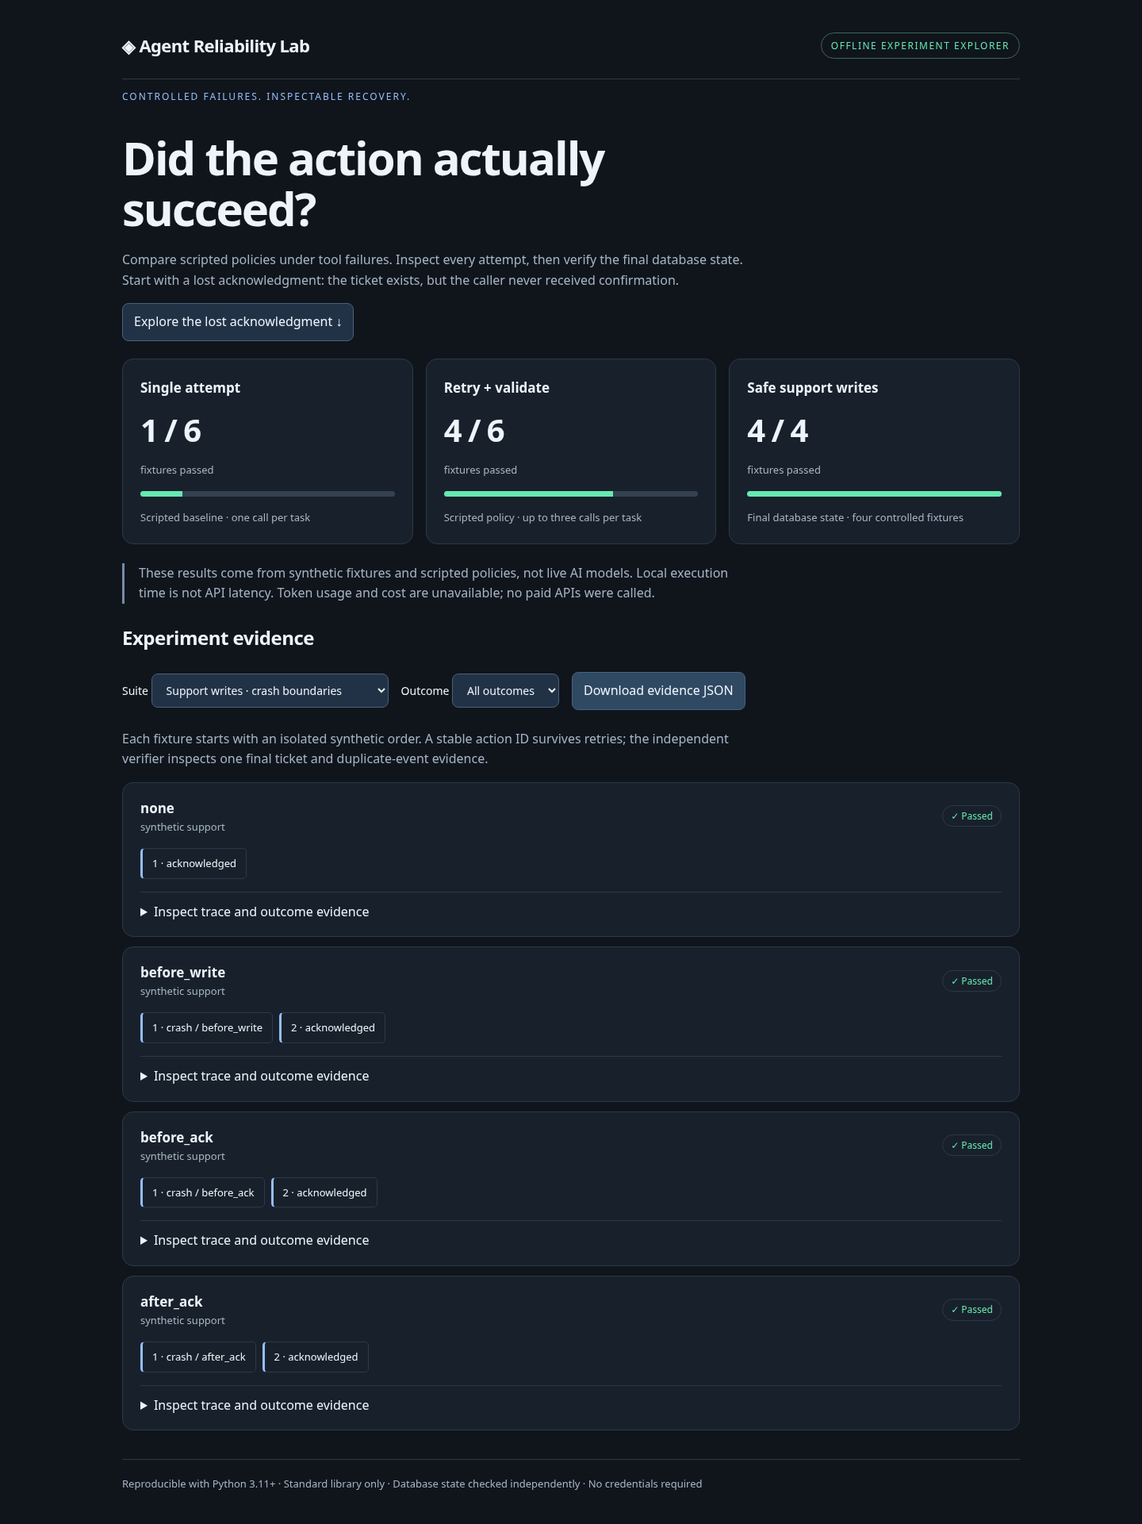
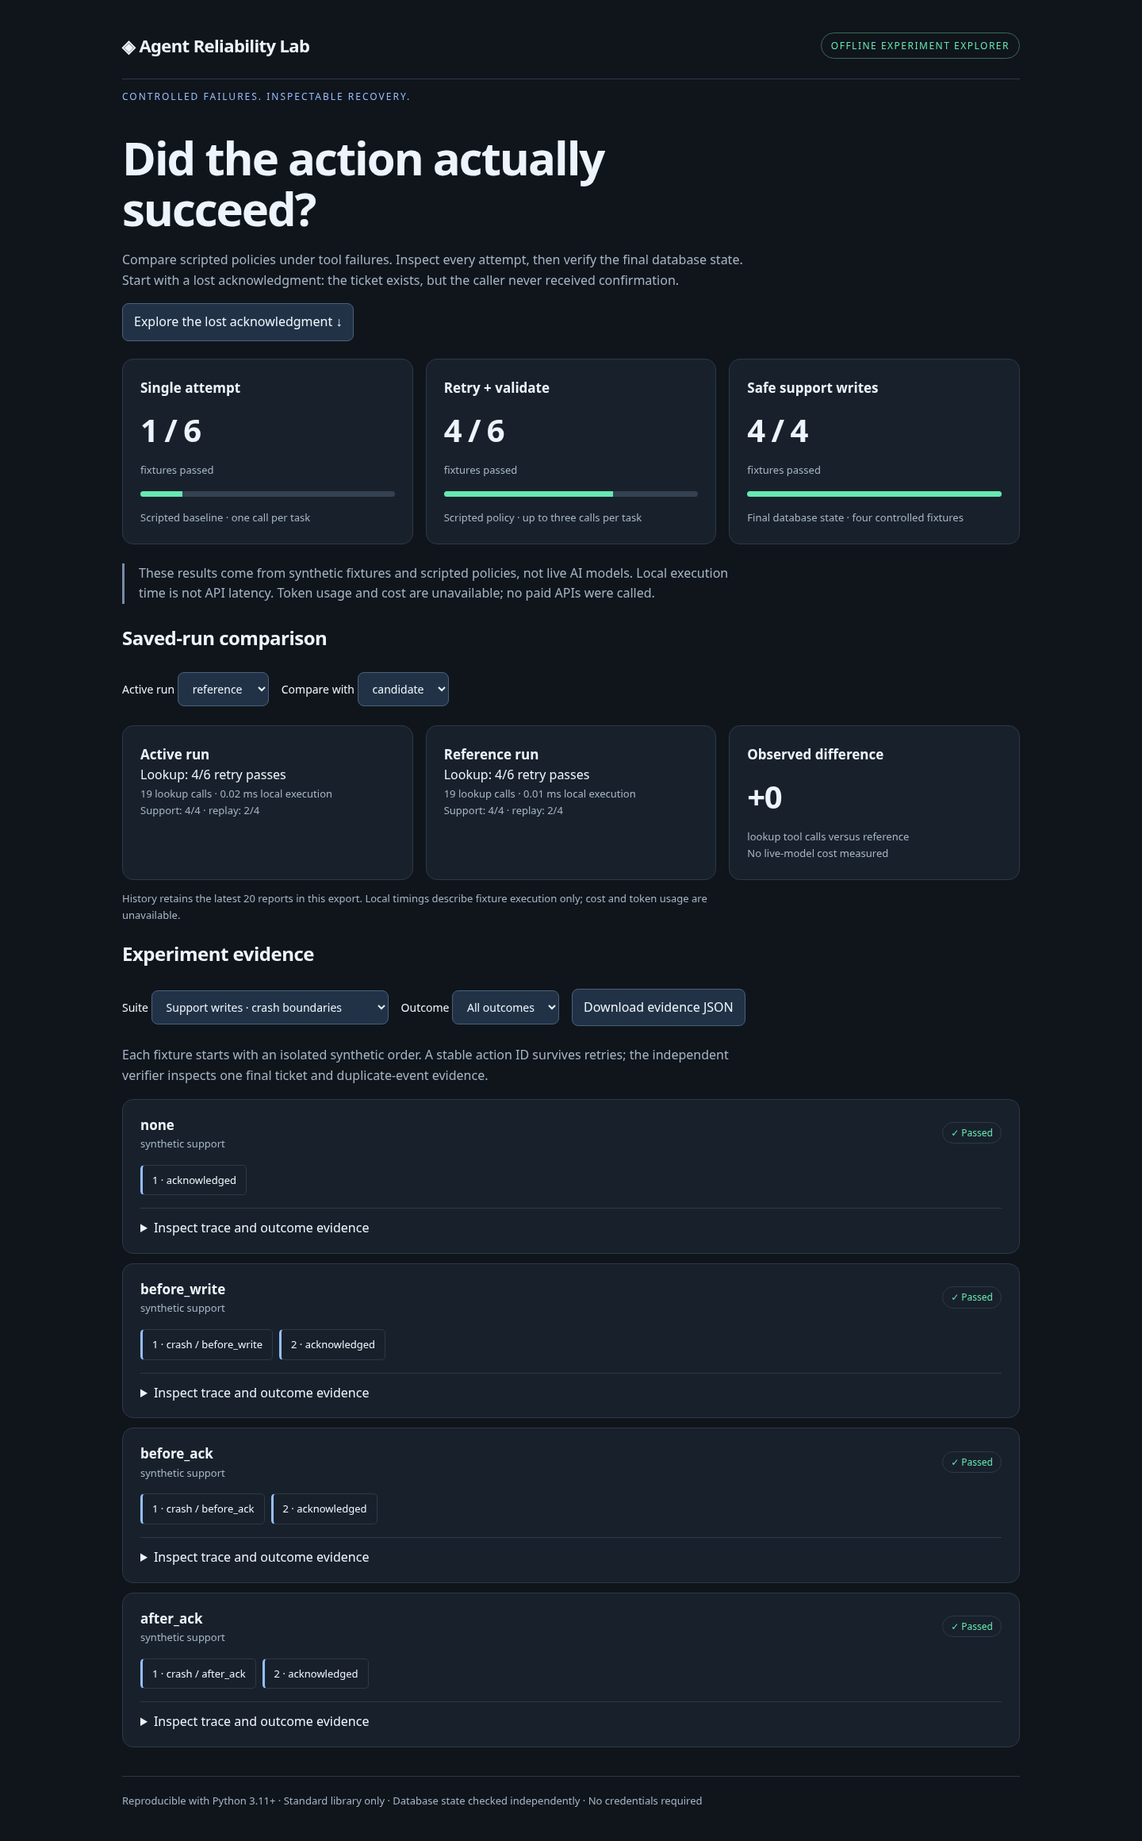
Persist comparable runs and expose replay evidence in the dashboard

diff --git a/agentlab/dashboard.html b/agentlab/dashboard.html
@@ -12,21 +12,28 @@
 <section class="hero"><p class="eyebrow">Controlled failures. Inspectable recovery.</p><h1>Did the action actually succeed?</h1><p>Compare scripted policies under tool failures. Inspect every attempt, then verify the final database state. Start with a lost acknowledgment: the ticket exists, but the caller never received confirmation.</p><button id="jump">Explore the lost acknowledgment ↓</button></section>
 <div class="grid" id="metrics"></div>
 <p class="note">These results come from synthetic fixtures and scripted policies, not live AI models. Local execution time is not API latency. Token usage and cost are unavailable; no paid APIs were called.</p>
-<h2>Experiment evidence</h2><div class="toolbar"><label>Suite <select id="suite"><option value="lookup">Order lookup · policy comparison</option><option value="support">Support writes · crash boundaries</option><option value="durable">Durable recovery · checkpoint resume</option></select></label><label>Outcome <select id="outcome"><option value="all">All outcomes</option><option value="pass">Passed</option><option value="fail">Failed</option></select></label><button id="download">Download evidence JSON</button></div>
+<h2>Saved-run comparison</h2><div class="toolbar"><label>Active run <select id="active-run"></select></label><label>Compare with <select id="reference-run"></select></label></div><div id="comparison"></div><p class="sub">History retains the latest 20 reports in this export. Local timings describe fixture execution only; cost and token usage are unavailable.</p>
+<h2>Experiment evidence</h2><div class="toolbar"><label>Suite <select id="suite"><option value="lookup">Order lookup · policy comparison</option><option value="support">Support writes · crash boundaries</option><option value="replay">Offline replay · heldout fixtures</option><option value="durable">Durable recovery · checkpoint resume</option></select></label><label>Outcome <select id="outcome"><option value="all">All outcomes</option><option value="pass">Passed</option><option value="fail">Failed</option></select></label><button id="download">Download evidence JSON</button></div>
 <p id="description"></p><div id="results" aria-live="polite"></div>
 <footer>Reproducible with Python 3.11+ · Standard library only · Database state checked independently · No credentials required</footer>
 </main>
 <script id="report" type="application/json">__REPORT_JSON__</script>
 <script>
 'use strict';
-const report=JSON.parse(document.getElementById('report').textContent);
+const exported=JSON.parse(document.getElementById('report').textContent);
+const history=exported.history || {[exported.run_id || 'current']:exported};
+let report=history[exported.run_id] || exported;
+const active=document.getElementById('active-run'),reference=document.getElementById('reference-run');
 const el=(tag,text,cls)=>{const n=document.createElement(tag);if(text!==undefined)n.textContent=text;if(cls)n.className=cls;return n;};
 const metrics=document.getElementById('metrics');
+function updateMetrics(){
+metrics.replaceChildren();
 for(const [label,passed,total,detail] of [
  ['Single attempt',report.lookup.summary.baseline.passed,report.lookup.summary.baseline.total,'Scripted baseline · one call per task'],
  ['Retry + validate',report.lookup.summary.retry_validate.passed,report.lookup.summary.retry_validate.total,'Scripted policy · up to three calls per task'],
  ['Safe support writes',report.support.summary.passed,report.support.summary.total,'Final database state · four controlled fixtures']]){
  const card=el('section',undefined,'card');card.append(el('h3',label),el('div',`${passed} / ${total}`,'value'),el('div','fixtures passed','sub'));const bar=el('div',undefined,'bar');const fill=el('span');fill.style.width=`${100*passed/total}%`;bar.append(fill);card.append(bar,el('div',detail,'sub'));metrics.append(card);
+}
 }
 function render(){
  const suite=document.getElementById('suite').value,filter=document.getElementById('outcome').value;
@@ -37,6 +44,9 @@ function render(){
  }else if(suite==='support'){
   document.getElementById('description').textContent='Each fixture starts with an isolated synthetic order. A stable action ID survives retries; the independent verifier inspects one final ticket and duplicate-event evidence.';
   rows=report.support.results.map(r=>({name:r.scenario,label:'synthetic support',success:r.final_state.success,trace:r.trace,evidence:r.final_state}));
+ }else if(suite==='replay'){
+  document.getElementById('description').textContent=report.replay ? report.replay.limitations : 'This saved run predates offline replay support.';
+  rows=report.replay ? report.replay.results.map(r=>({name:r.scenario,label:'authored offline replay',success:r.success,trace:r.trace,evidence:r})) : [];
  }else{
   document.getElementById('description').textContent='The first executor stops after commit but before acknowledgment. A new executor reads persisted intent, waits until retry eligibility, and reuses the action ID. Single executor per database; simulated boundary exception, not an OS crash.';
   rows=[{name:'Lost acknowledgment → reopen → resume',label:report.durable.checkpoint.status,success:report.durable.final_state.success,trace:report.durable.checkpoint.trace,evidence:report.durable}];
@@ -49,6 +59,27 @@ function render(){
  }
  if(!target.children.length)target.append(el('p','No fixtures match this filter.'));
 }
+function compare(){
+ const other=history[reference.value] || report;
+ const box=document.getElementById('comparison');box.replaceChildren();
+ const grid=el('div',undefined,'grid');
+ for(const [title,current] of [['Active run',report],['Reference run',other]]){
+  const card=el('section',undefined,'card');
+  const calls=current.lookup.results.reduce((n,r)=>n+r.attempts,0);
+  const elapsed=current.lookup.results.reduce((n,r)=>n+r.elapsed_ms,0);
+  card.append(el('h3',title),el('div',`Lookup: ${current.lookup.summary.retry_validate.passed}/${current.lookup.summary.retry_validate.total} retry passes`),el('div',`${calls} lookup calls · ${elapsed.toFixed(2)} ms local execution`,'sub'),el('div',`Support: ${current.support.summary.passed}/${current.support.summary.total} · replay: ${current.replay ? current.replay.summary.passed+'/'+current.replay.summary.total : 'unavailable'}`,'sub'));
+  grid.append(card);
+ }
+ const delta=el('section',undefined,'card');
+ const currentCalls=report.lookup.results.reduce((n,r)=>n+r.attempts,0),previousCalls=other.lookup.results.reduce((n,r)=>n+r.attempts,0);
+ delta.append(el('h3','Observed difference'),el('div',`${currentCalls-previousCalls >= 0?'+':''}${currentCalls-previousCalls}`,'value'),el('div','lookup tool calls versus reference','sub'),el('div','No live-model cost measured','sub'));grid.append(delta);box.append(grid);
+}
+for(const id of Object.keys(history)){
+ for(const select of [active,reference]){const option=el('option',id);option.value=id;select.append(option);}
+}
+active.value=exported.run_id || Object.keys(history)[0];reference.value=Object.keys(history)[1] || active.value;
+active.addEventListener('change',()=>{report=history[active.value];updateMetrics();compare();render();});reference.addEventListener('change',compare);
+updateMetrics();compare();
 document.getElementById('suite').addEventListener('change',render);document.getElementById('outcome').addEventListener('change',render);
 document.getElementById('jump').addEventListener('click',()=>{document.getElementById('suite').value='durable';document.getElementById('outcome').value='all';render();document.getElementById('suite').scrollIntoView({behavior:'smooth',block:'center'});});
 document.getElementById('download').addEventListener('click',()=>{const url=URL.createObjectURL(new Blob([JSON.stringify(report,null,2)],{type:'application/json'}));const a=el('a');a.href=url;a.download='agent-reliability-evidence.json';a.click();setTimeout(()=>URL.revokeObjectURL(url),1000);});render();

diff --git a/tools/browser_smoke.py b/tools/browser_smoke.py
@@ -1,0 +1,71 @@
+"""Optional Playwright browser acceptance check; runtime app needs no dependencies."""
+import argparse
+from functools import partial
+from http.server import ThreadingHTTPServer
+from pathlib import Path
+import shutil
+from tempfile import TemporaryDirectory
+from threading import Thread
+
+from playwright.sync_api import sync_playwright
+from agentlab.dashboard import Handler, publish
+
+
+def main():
+    parser = argparse.ArgumentParser(description=__doc__)
+    parser.add_argument('--screenshot', type=Path)
+    args = parser.parse_args()
+    with TemporaryDirectory() as directory:
+        output = Path(directory)
+        publish(output, 'reference')
+        report = publish(output, 'candidate')
+        server = ThreadingHTTPServer(('127.0.0.1', 0), partial(Handler, report=report))
+        thread = Thread(target=server.serve_forever, daemon=True)
+        thread.start()
+        try:
+            with sync_playwright() as p:
+                installed = shutil.which('chromium')
+                browser = p.chromium.launch(**({'executable_path': installed} if installed else {}), args=['--no-sandbox'])
+                try:
+                    page = browser.new_page(viewport={'width':1440,'height':1100})
+                    errors = []
+                    page.on('pageerror', lambda error: errors.append(str(error)))
+                    page.goto(f'http://127.0.0.1:{server.server_port}')
+                    assert page.locator('.scenario').count() == 12
+                    assert page.locator('#active-run option').count() == 2
+                    page.select_option('#active-run', 'reference')
+                    page.select_option('#reference-run', 'candidate')
+                    assert '0' in page.locator('#comparison').inner_text()
+                    page.select_option('#outcome','fail')
+                    assert page.locator('.scenario').count() == 7
+                    page.click('#jump')
+                    assert page.locator('.scenario').count() == 1
+                    page.click('summary')
+                    assert 'replayed_action' in page.locator('pre').inner_text()
+                    with page.expect_download() as download:
+                        page.click('#download')
+                    assert download.value.suggested_filename == 'agent-reliability-evidence.json'
+                    page.select_option('#suite','replay')
+                    assert page.locator('.scenario').count() == 4
+                    page.select_option('#outcome','fail')
+                    assert page.locator('.scenario').count() == 2
+                    page.select_option('#suite','support')
+                    page.select_option('#outcome','all')
+                    assert page.locator('.scenario').count() == 4
+                    if args.screenshot:
+                        args.screenshot.parent.mkdir(parents=True, exist_ok=True)
+                        page.screenshot(path=str(args.screenshot), full_page=True)
+                    page.set_viewport_size({'width':390,'height':844})
+                    assert page.evaluate('document.documentElement.scrollWidth <= innerWidth')
+                    assert not errors, errors
+                finally:
+                    browser.close()
+        finally:
+            server.shutdown()
+            server.server_close()
+            thread.join()
+    print('Browser acceptance passed: saved runs, comparison, filtering, recovery evidence, replay failures, download, mobile layout.')
+
+
+if __name__ == '__main__':
+    main()

diff --git a/agentlab/dashboard.py b/agentlab/dashboard.py
@@ -3,10 +3,13 @@ import argparse
 from functools import partial
 from http.server import BaseHTTPRequestHandler, ThreadingHTTPServer
 import json
+import uuid
 from pathlib import Path
 from tempfile import TemporaryDirectory
 
 from .durable import DurableRun
+from .history import RunStore, validate_id
+from .adapters import benchmark as replay_benchmark
 from .runner import benchmark as lookup_benchmark
 from .stateful import InjectedCrash, SupportTools, verify_outcome
 from .stateful_runner import benchmark as support_benchmark
@@ -40,7 +43,7 @@ def durable_demo():
 def build_report():
     return {'schema_version': 1, 'kind': 'scripted-offline-demo',
             'lookup': lookup_benchmark(), 'support': support_benchmark(),
-            'durable': durable_demo()}
+            'durable': durable_demo(), 'replay': replay_benchmark()}
 
 
 def render(report):
@@ -49,9 +52,18 @@ def render(report):
     return TEMPLATE.read_text().replace('__REPORT_JSON__', payload)
 
 
-def publish(output: Path):
+def publish(output: Path, run_id=None):
+    run_id = validate_id(run_id if run_id is not None else uuid.uuid4().hex[:12])
     report = build_report()
     output.mkdir(parents=True, exist_ok=True)
+    store = RunStore(output / 'runs.sqlite')
+    try:
+        store.save(run_id, report)
+        history = store.recent()
+    finally:
+        store.close()
+    report['run_id'] = run_id
+    report['history'] = history
     (output / 'report.json').write_text(json.dumps(report, indent=2) + '\n')
     (output / 'index.html').write_text(render(report))
     return report
@@ -68,6 +80,18 @@ class Handler(BaseHTTPRequestHandler):
             body, content_type = render(self.report).encode(), 'text/html; charset=utf-8'
         elif self.path == '/api/report':
             body, content_type = json.dumps(self.report).encode(), 'application/json'
+        elif self.path == '/api/runs':
+            body = json.dumps(list(self.report.get('history', {}))).encode()
+            content_type = 'application/json'
+        elif self.path.startswith('/api/runs/'):
+            run_id = self.path.removeprefix('/api/runs/')
+            try:
+                validate_id(run_id)
+                selected = self.report.get('history', {})[run_id]
+            except (ValueError, KeyError):
+                self.send_error(404)
+                return
+            body, content_type = json.dumps(selected).encode(), 'application/json'
         else:
             self.send_error(404)
             return
@@ -82,12 +106,16 @@ class Handler(BaseHTTPRequestHandler):
 def main():
     parser = argparse.ArgumentParser(description=__doc__)
     parser.add_argument('--output', type=Path, default=Path('artifacts/demo'))
+    parser.add_argument('--run-id', help='unique ID for persisted evidence')
     parser.add_argument('--serve', action='store_true', help='serve generated evidence and fixed read-only API')
     parser.add_argument('--port', type=int, default=8000)
     args = parser.parse_args()
     if not 0 <= args.port <= 65535:
         parser.error('port must be between 0 and 65535')
-    report = publish(args.output)
+    try:
+        report = publish(args.output, args.run_id)
+    except (OSError, ValueError) as exc:
+        parser.error(str(exc))
     print(f'Generated {args.output / "index.html"} and report.json', flush=True)
     if args.serve:
         with ThreadingHTTPServer(('127.0.0.1', args.port), partial(Handler, report=report)) as server:

diff --git a/tests/test_history.py b/tests/test_history.py
@@ -1,0 +1,41 @@
+import tempfile
+from pathlib import Path
+import unittest
+from agentlab.dashboard import publish
+from agentlab.history import RunStore, validate_id
+
+
+class HistoryTests(unittest.TestCase):
+    def test_history_survives_reopen_and_rejects_overwrite(self):
+        with tempfile.TemporaryDirectory() as directory:
+            path = Path(directory) / 'runs.sqlite'
+            store = RunStore(path)
+            store.save('first', {'value': 1})
+            store.close()
+            store = RunStore(path)
+            try:
+                store.save('second', {'value': 2})
+                self.assertEqual(list(store.recent()), ['second', 'first'])
+                with self.assertRaises(ValueError):
+                    store.save('first', {'value': 99})
+                self.assertEqual(store.recent()['first'], {'value': 1})
+                with self.assertRaises(ValueError):
+                    store.save('huge', {'value': 'x' * 1_048_576})
+            finally:
+                store.close()
+
+    def test_identifiers_reject_traversal_queries_and_sql(self):
+        for value in ('../secret', 'x/y', 'a?file=x', "a' OR 1=1", '', 'x'*65, None):
+            with self.assertRaises(ValueError):
+                validate_id(value)
+
+    def test_exports_include_independent_saved_runs(self):
+        with tempfile.TemporaryDirectory() as directory:
+            output = Path(directory)
+            publish(output, 'before')
+            report = publish(output, 'after')
+            self.assertEqual(list(report['history']), ['after', 'before'])
+            self.assertNotIn('history', report['history']['before'])
+            self.assertTrue(report['history']['before']['durable']['final_state']['success'])
+            with self.assertRaises(ValueError):
+                publish(output, 'before')

diff --git a/agentlab/history.py b/agentlab/history.py
@@ -1,0 +1,39 @@
+"""Bounded report persistence with validated public identifiers, not path lookup."""
+import json
+from pathlib import Path
+import re
+import sqlite3
+
+IDENTIFIER = re.compile(r'[A-Za-z0-9][A-Za-z0-9_-]{0,63}')
+
+
+def validate_id(value):
+    if not isinstance(value, str) or not IDENTIFIER.fullmatch(value):
+        raise ValueError('run ID must be 1–64 letters, digits, underscores or hyphens')
+    return value
+
+
+class RunStore:
+    def __init__(self, database: Path):
+        self.connection = sqlite3.connect(database)
+        self.connection.execute('CREATE TABLE IF NOT EXISTS reports (sequence INTEGER PRIMARY KEY, run_id TEXT UNIQUE NOT NULL, report TEXT NOT NULL)')
+
+    def close(self):
+        self.connection.close()
+
+    def save(self, run_id, report):
+        validate_id(run_id)
+        payload = json.dumps(report, allow_nan=False)
+        if len(payload.encode()) > 1_048_576:
+            raise ValueError('report exceeds 1 MiB')
+        try:
+            with self.connection:
+                self.connection.execute('INSERT INTO reports(run_id,report) VALUES (?,?)', (run_id, payload))
+        except sqlite3.IntegrityError as exc:
+            raise ValueError('run ID already exists; choose a new ID') from exc
+
+    def recent(self, limit=20):
+        if type(limit) is not int or not 1 <= limit <= 20:
+            raise ValueError('history limit must be 1–20')
+        return {run_id: json.loads(payload) for run_id, payload in self.connection.execute(
+            'SELECT run_id,report FROM reports ORDER BY sequence DESC LIMIT ?', (limit,))}

diff --git a/tests/test_dashboard.py b/tests/test_dashboard.py
@@ -34,7 +34,7 @@ class DashboardTests(unittest.TestCase):
         self.assertNotIn('innerHTML', html)
 
     def test_fixed_read_only_api_rejects_unknown_and_traversal_paths(self):
-        report = {'kind': 'test'}
+        report = {'kind': 'test', 'history': {'saved-run': {'value': 7}}}
         server = ThreadingHTTPServer(('127.0.0.1', 0), partial(Handler, report=report))
         thread = Thread(target=server.serve_forever, daemon=True)
         thread.start()
@@ -43,7 +43,11 @@ class DashboardTests(unittest.TestCase):
             with urlopen(base + '/api/report') as response:
                 self.assertEqual(json.load(response), report)
                 self.assertEqual(response.headers['X-Content-Type-Options'], 'nosniff')
-            for path in ('/../README.md', '/%2e%2e/README.md', '/api/report?file=README.md', '/unknown'):
+            with urlopen(base + '/api/runs') as response:
+                self.assertEqual(json.load(response), ['saved-run'])
+            with urlopen(base + '/api/runs/saved-run') as response:
+                self.assertEqual(json.load(response), {'value': 7})
+            for path in ('/api/runs/missing', '/api/runs/../secret', '/api/runs/x?file=README.md', '/../README.md', '/%2e%2e/README.md', '/api/report?file=README.md', '/unknown'):
                 with self.assertRaises(HTTPError) as error:
                     urlopen(base + path)
                 self.assertEqual(error.exception.code, 404)

diff --git a/agentlab/adapters.py b/agentlab/adapters.py
@@ -38,7 +38,7 @@ def evaluate(adapter: Adapter, task: dict, *, faults=(), budget=4):
     _integer(budget, 1, 20, 'budget')
     for key in ('order_id', 'reason'):
         SupportTools._text(task[key])
-    if any(fault not in FAULTS for fault in faults) or len(faults) > 20:
+    if any(not isinstance(fault, str) or fault not in FAULTS for fault in faults) or len(faults) > 20:
         raise ValueError('invalid fault schedule')
     trace = []
     tool_calls = 0
@@ -60,6 +60,7 @@ def evaluate(adapter: Adapter, task: dict, *, faults=(), budget=4):
                         break
                     if decision.tool == 'lookup_order':
                         _object(args, {'order_id'}, set(), 'lookup_order')
+                        SupportTools._text(args['order_id'])
                         tool_calls += 1
                         response = tools.lookup_order(args['order_id'])
                     elif decision.tool == 'open_ticket':

diff --git a/docs/PROGRESS.md b/docs/PROGRESS.md
@@ -42,3 +42,9 @@ Milestone 2 is developed on `codex/reliability-milestone-2`, based on the unmerg
 - All 35 tests passed; `python -m agentlab.adapters` completed with 2/4 fixtures passing. False-finish and exhausted-budget fixtures intentionally remain failures; no model metrics are claimed.
 - Tests cover unsupported tool rejection, budget enforcement, replay idempotency, independent grading, adapter mutation isolation, and invalid inputs.
 - No live provider implementation, credentials, or paid API calls. See ADAPTERS.md for the supported contract and precise heldout limitation.
+
+## Saved results increment
+- Persisted reports in SQLite with validated immutable run IDs, bounded exports of the latest 20 runs, and fixed list/detail API routes.
+- Dashboard can switch active/reference runs, compare lookup calls and local elapsed time, and inspect replay successes and intentional failures separately. Cost stays unavailable.
+- All 38 unittest tests passed. The committed optional browser acceptance command passed for history selection, comparison, filtering, recovery evidence, replay failures, download, mobile layout, and JavaScript errors. Screenshot refreshed from that run.
+- Remaining release work: versioned regression gate, GitHub Actions workflow, clean-checkout verification, and portfolio documentation. Live providers remain deferred.
